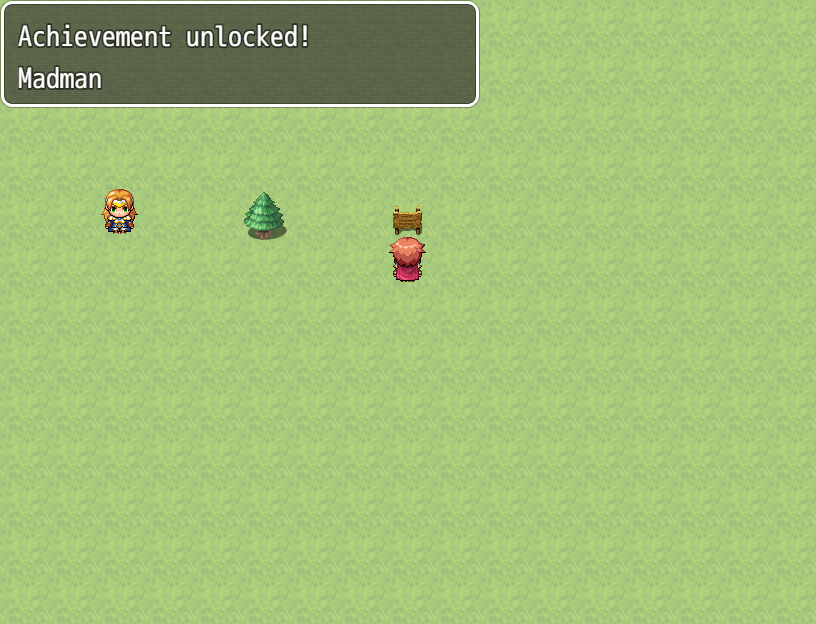
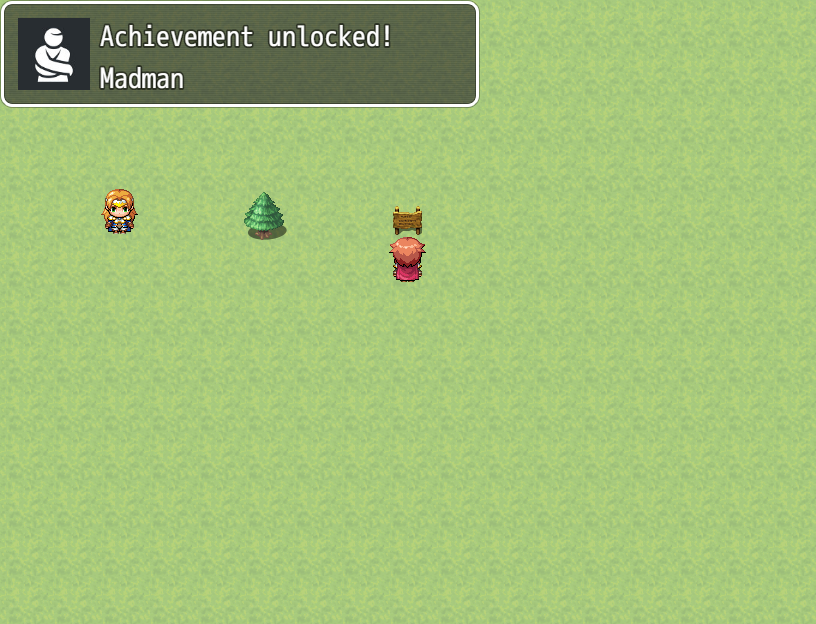
Added image in achievement unlocked window

Changed region(s): [[0.0, 0.0304, 0.4902, 0.1522]]

diff --git a/Example/Achievements/js/plugins.js b/Example/Achievements/js/plugins.js
@@ -2,5 +2,5 @@
 // Do not edit this file directly.
 var $plugins =
 [
-{"name":"Achievements","status":true,"description":"Pivert Achievements system.","parameters":{"-- Achievements --":"","Achievements text":"Achievements","Ach. unlocked text":"Achievement unlocked!","Ach. unlocked timer":"180","Ach. unlocked SE":"Item1","Ach. unlocked width":"480","Ach. unlocked X position":"0","Ach. unlocked Y position":"0","Locked ach. name color":"5","Unlocked ach. name color":"0","-- Settings --":"","Images directory":"img/achievements","Locked image":"locked","Ach. unlocked skin":"skin"}}
+{"name":"Achievements","status":true,"description":"Pivert Achievements system.","parameters":{"-- Achievements --":"","Achievements text":"Achievements","Ach. unlocked text":"Achievement unlocked!","Ach. unlocked timer":"180","Ach. unlocked SE":"Item1","Ach. unlocked width":"480","Ach. unlocked X position":"0","Ach. unlocked Y position":"0","Locked ach. name color":"5","Unlocked ach. name color":"0","-- Settings --":"","Images directory":"img/achievements","Locked image":"locked","Ach. unlocked skin":"default"}}
 ];

diff --git a/Achievements.js b/Achievements.js
@@ -62,7 +62,7 @@
  *
  * @param Ach. unlocked skin
  * @desc Skin of the image which should be used for "Achievement unlocked!" window.
- * @default skin
+ * @default default
  *
  * @help
  *
@@ -106,7 +106,7 @@
 
     params.imageDirectory = String(parameters['Images directory'] || 'img/achievements') + '/';
     params.lockedImage = String(parameters['Locked image'] || 'locked');
-    params.skinImage = String(parameters['Ach. unlocked skin'] || 'skin');
+    params.skinImage = String(parameters['Ach. unlocked skin'] || 'default');
 
 
     var startAchievements = function (achievements) {

diff --git a/Example/Achievements/js/plugins/Achievements.js b/Example/Achievements/js/plugins/Achievements.js
@@ -62,7 +62,7 @@
  *
  * @param Ach. unlocked skin
  * @desc Skin of the image which should be used for "Achievement unlocked!" window.
- * @default skin
+ * @default default
  *
  * @help
  *
@@ -106,7 +106,7 @@
 
     params.imageDirectory = String(parameters['Images directory'] || 'img/achievements') + '/';
     params.lockedImage = String(parameters['Locked image'] || 'locked');
-    params.skinImage = String(parameters['Ach. unlocked skin'] || 'skin');
+    params.skinImage = String(parameters['Ach. unlocked skin'] || 'default');
 
 
     var startAchievements = function (achievements) {

diff --git a/README.md b/README.md
@@ -118,6 +118,10 @@ __Locked image__
 
 Image displayed on locked achievements. Default is "locked".
 
+__Ach. unlocked skin__
+
+Skin to be used for "Achievement unlocked!" window. Default is "default" and uses the default skin.
+
 
 # Credits
 
